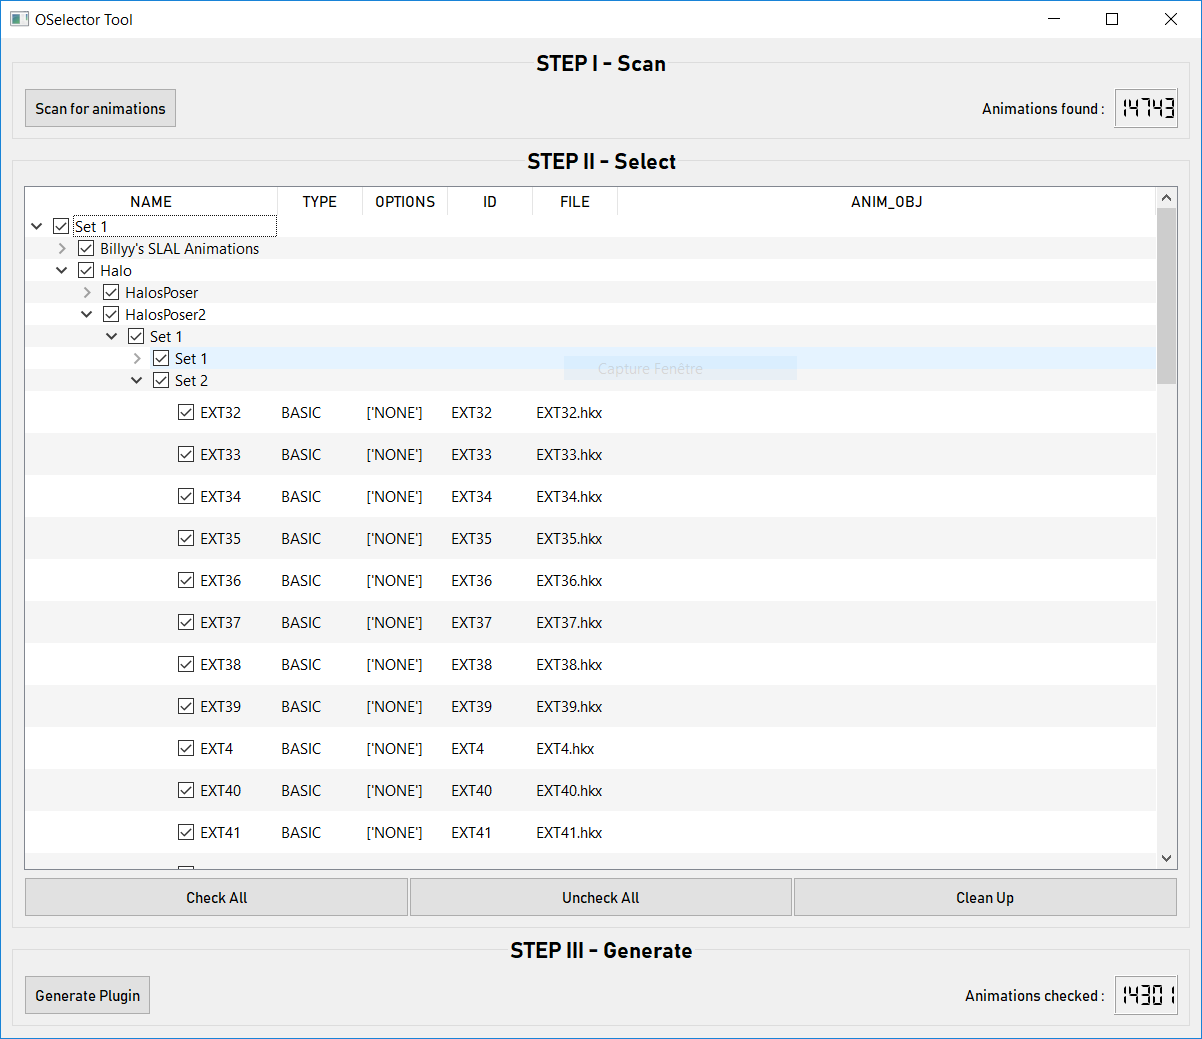
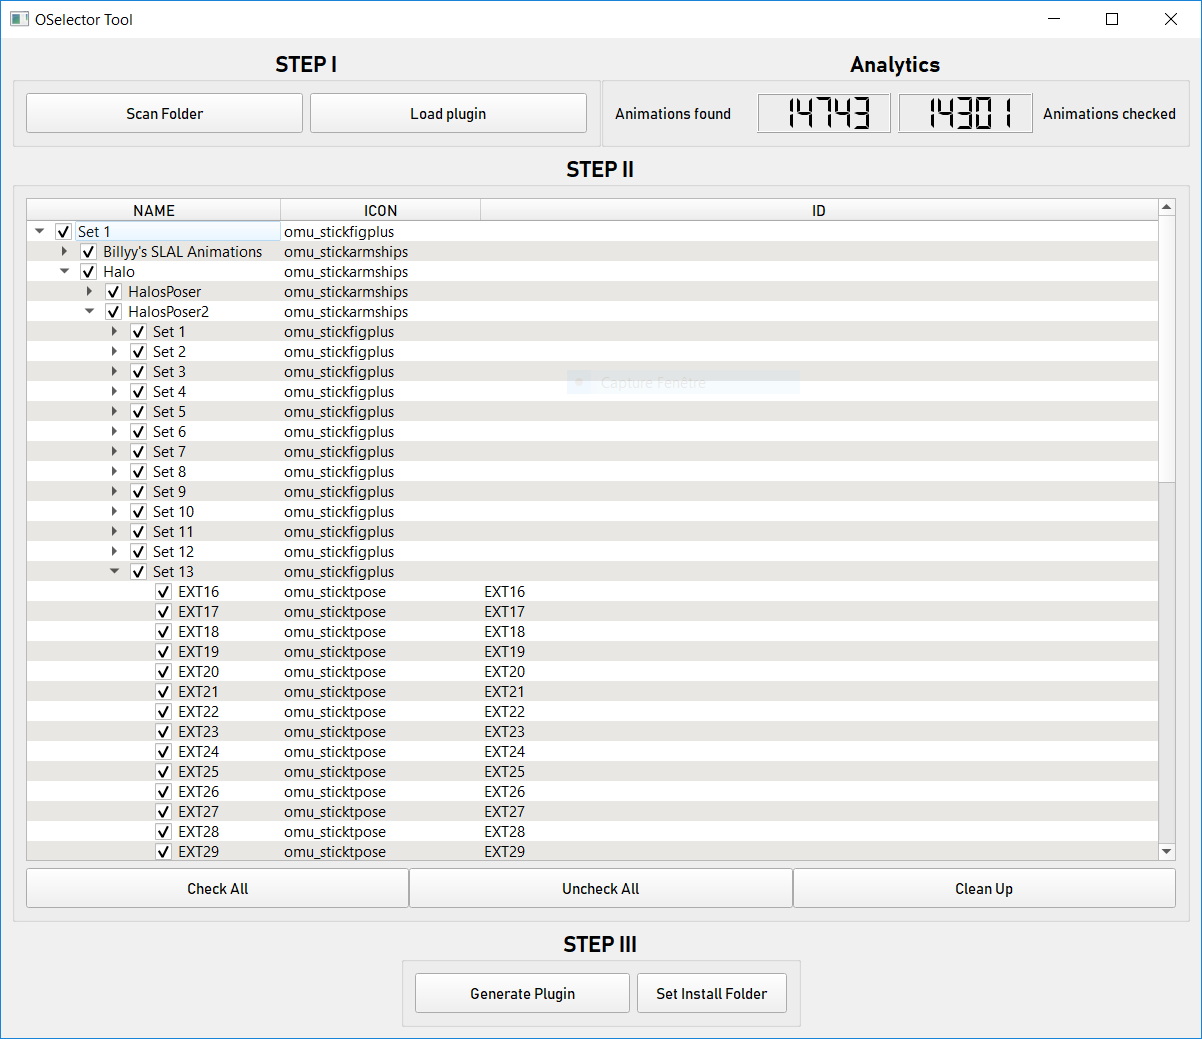
Updated Readme.md

diff --git a/README.md b/README.md
@@ -2,8 +2,8 @@
 
 **OSelector** is a tool to generate a poser plugin for **OSA**. You can easily generate
 a plugin for any mod you have installed, allowing you to test every animation using **FNIS**
-through **OSA UI**.
-The plugin is an xml file using the *MyAnimation* functionality.
+through **OSA UI**. The plugin is an xml file using the *MyAnimation* functionality. So no
+esp slot taken.
 
 Description of MyAnimation from **OSA**:  
 
@@ -14,37 +14,49 @@ Description of MyAnimation from **OSA**:
 > where it simply plays single animations.  
 [Nexus Link](https://www.nexusmods.com/skyrim/mods/76744/?tab=description&topic_id=5756447)
 
-If you use OSA, you surely have seen the plugin made by Morra
-(Available on LL : Morra's Poser Pack). This tool does not replace it. Morra put time and effort
-to make a clean navigation menu, which this tool struggle to make out of the box. However, this tool should
-make the process more easy and quick.
-
-*NOTE: This does not take an esp slot. It is just one xml file read by OSA*
-
+### With just a click :
 ![Tool Overview](ressources/tool_overview.png)
+
+
 
 ## How does it works ?
 
-* First step is to scan the folder of your choice (usually data/ or mods/).
+There is three major step :
+
+* First step is to scan the folder of your choice *(usually data/ or mods/)*.
 It will register every animation using **FNIS**
 
 * During second step, a tree structure will be displayed. It represents the navigation menu
-you will see in game. You can make some edit, changing name and modifying the organization (limited functionality for now).
-To prevent the screen from being cluttered with entries, each page is limited to 25 items at generation.
-It means that the tool will organize the treein such a way that no more than 25 items are displayed.
-But if you edit it yourself, this rule is not applied (Meaning you can force a page to have more than 25 entries). 
+you will see in game. You can make some edit to it, change name and modify the organization.
+To prevent the screen from being cluttered with entries, each page is limited to 25 items (configurable)
+at generation. It means that the tool will organize the tree in such a way that no more
+than 25 items are displayed. But if you edit it yourself, this rule is not applied
+(Meaning you can force a page to have more than 25 entries). 
 
-* The third and final step is the plugin generation, where you just have to click a button.
+* The third and final step is the plugin generation, where you specify the
+name of your plugin.
 
 If you use Mod Organizer, the plugin should be installed in your mods folder. Then you just have to
-activate it in Mod Organizer. 
+activate it in Mod Organizer.
 
+You can also load existing plugin and tweak it.
+
+
+
+## Usage In-Game
+
+To use the plugin, you must have **OSA** installed. Then press **Enter** on your numpad to
+open **OSA UI**. Then go to __Inspect Self > Interact > Animate > [NAME OF YOUR PLUGIN]__. Depending of the
+number of animations and your PC, it can take some time to load the plugin.
 
 
 ## For who is this tool ?
 
-Anyone who want to make an easy navigation menu for a mod containing animations.
-Anyone who want to make to tweak a navigation menu with better names and organization.
+Anyone who want to make an easy navigation menu for a mod containing animations
+or for his entire data folder.
+
+Anyone who want to make a navigation menu with better names and organization or to tweak an 
+existing one
 
 * Mod Users can just launch the tool to have a menu for every or some animations. Everyone 
 can share his file, if he did some edit (better names and organization, like Morra's Poser Pack).
@@ -77,16 +89,59 @@ I've tested with roughly 14 000 animations and everything seemed fine.
 
 ## Configurations
 
-Some settings (like the max number of items per page) can be changed by editing the conf.ini file. If you do not see one, launch the tool once.
+Some settings (like the max number of items per page) can be changed by editing
+the conf.ini file. If you do not see one, launch the tool once.
 It will automatically generate a new one.
+
+
+
+##Tools used
+
+* IDE : [PyCharm Community Edition](https://www.jetbrains.com/pycharm/download/#section=windows)
+* Python : 3.6 (PyInstaller does not support 3.7 for now)
+* Libraries : PyQt (for the GUI) and PyInstaller (for the executable)
 
 
 
 ## FAQ
 
+##### Q: There is bug ! / I have some ideas for improving/fixing the tool
+**A** If you want to report an issue or feature request, feel free to open a ticket through github.
+To do so, go to **[ISSUES](https://github.com/Hyperen0r/OSelector/issues)**, click on _**New Issue**_
+and chose one of the templates. 
 
+##### Q: Why some names are so weird ?
+**A:** The Tool is supposed to handle all kind of animations using FNIS. But not every modder follow
+the same naming guidelines. So the tool is dependant of the three following names:
+
+* Package name (name of the mod)
+* Module name (name of the FNIS file, for example for "FNIS_3ijou_List.txt", it will be "3ijou" )
+* Animation name (More exactly name of the stage, like "EXT16")
+
+There is some tweak applied to each of them to be more readable and understandable,
+but this a functionality I want to improve.
+
+Also, some names are very long which overlap with other entries from OSA UI. To prevent this,
+each string is limited to 25 characters (also configurable)
+
+And last thing, the tree is automatically cleaned up of every folder containing zero child,
+or only one child (the child replace his parent). For now I haven't found a way to guess
+which name is better (the child or the parent ?).
+
+##### Q: I'm afraid to use an executable/ My anti-virus blocked your file
+**A:** I had no problem with my antivirus (Avira), and the exe was clean on Virus Total. 
+If you are suspicious, you can do the following:
+
+* Check with **[Virus Total](https://www.virustotal.com/#/home/upload)**
+* Check the source. **[Github link](https://github.com/Hyperen0r/OSelector)**
+* Execute directly from source. In that case, please refer to **[Tools Used](##Tools-Used)**
+to help you setup your environment.
 
 ## Known Bug
 
  - [ ] Menu entry is duplicated. Sometimes after closing and reopening, all menu entries are
  duplicated (even the one not generated with the tool)
+
+## Thanks
+
+* Thanks to CE0 and the OSA Team for this awesome engine/framework
